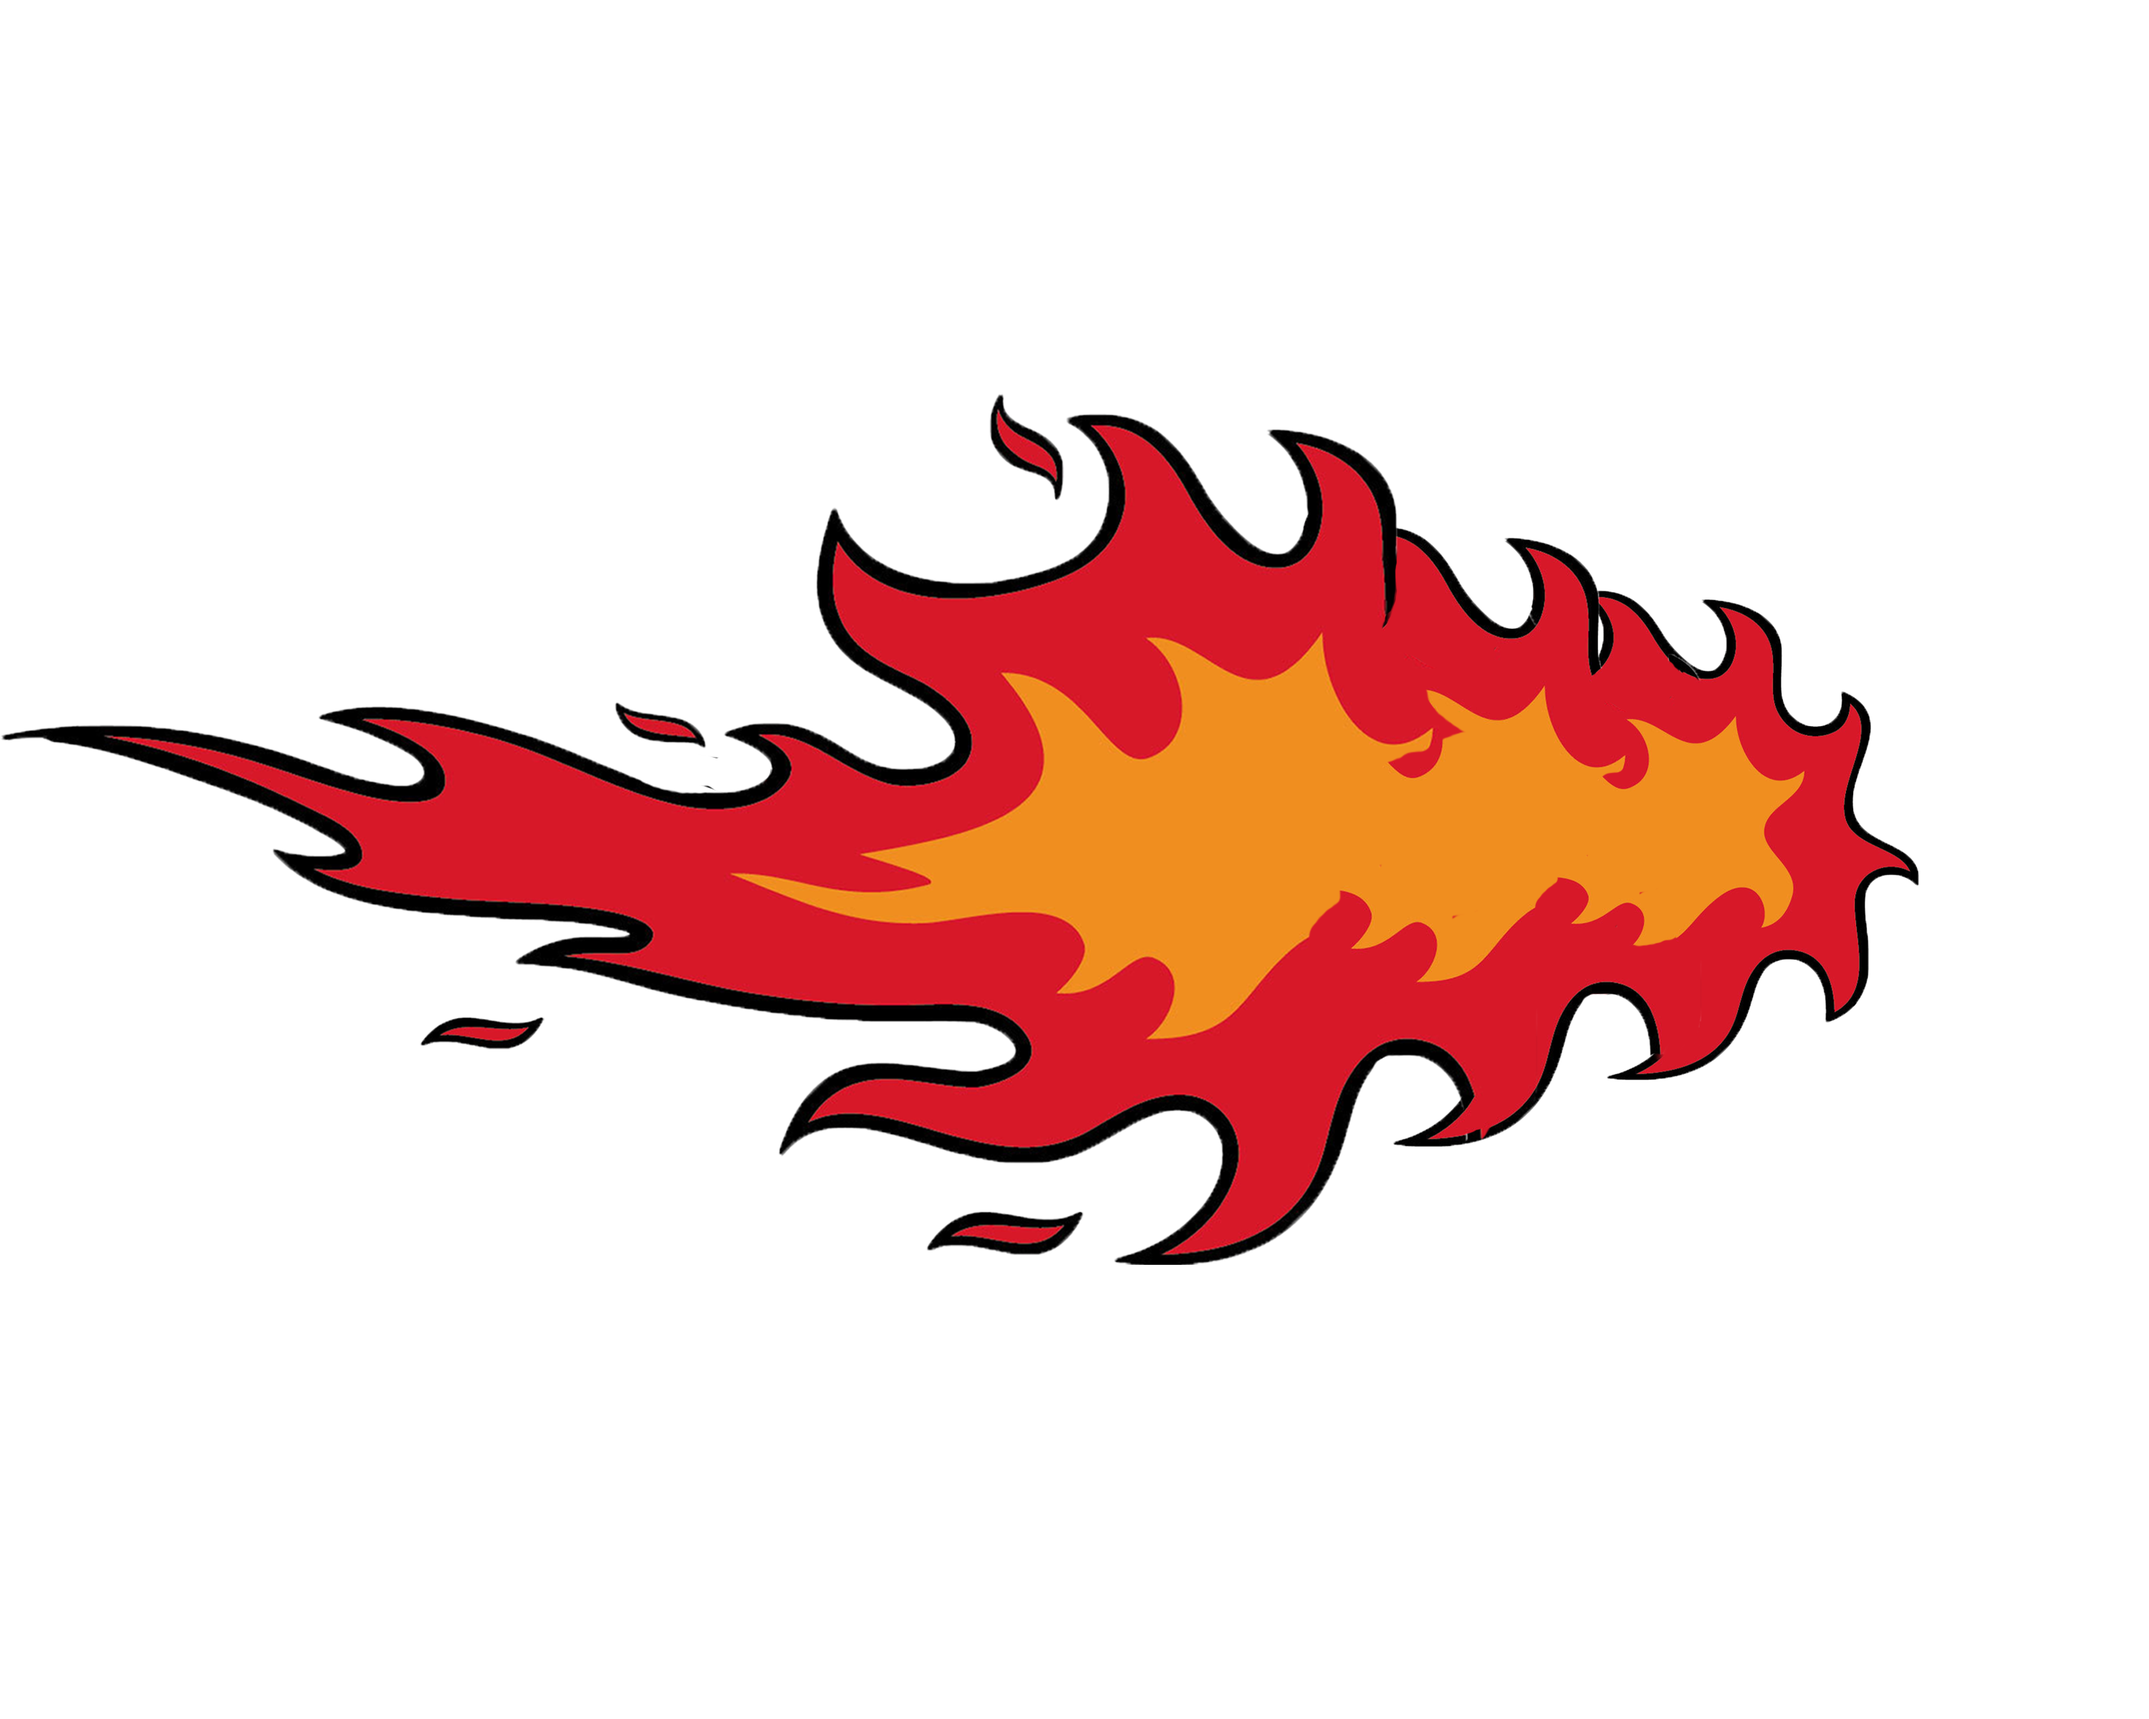
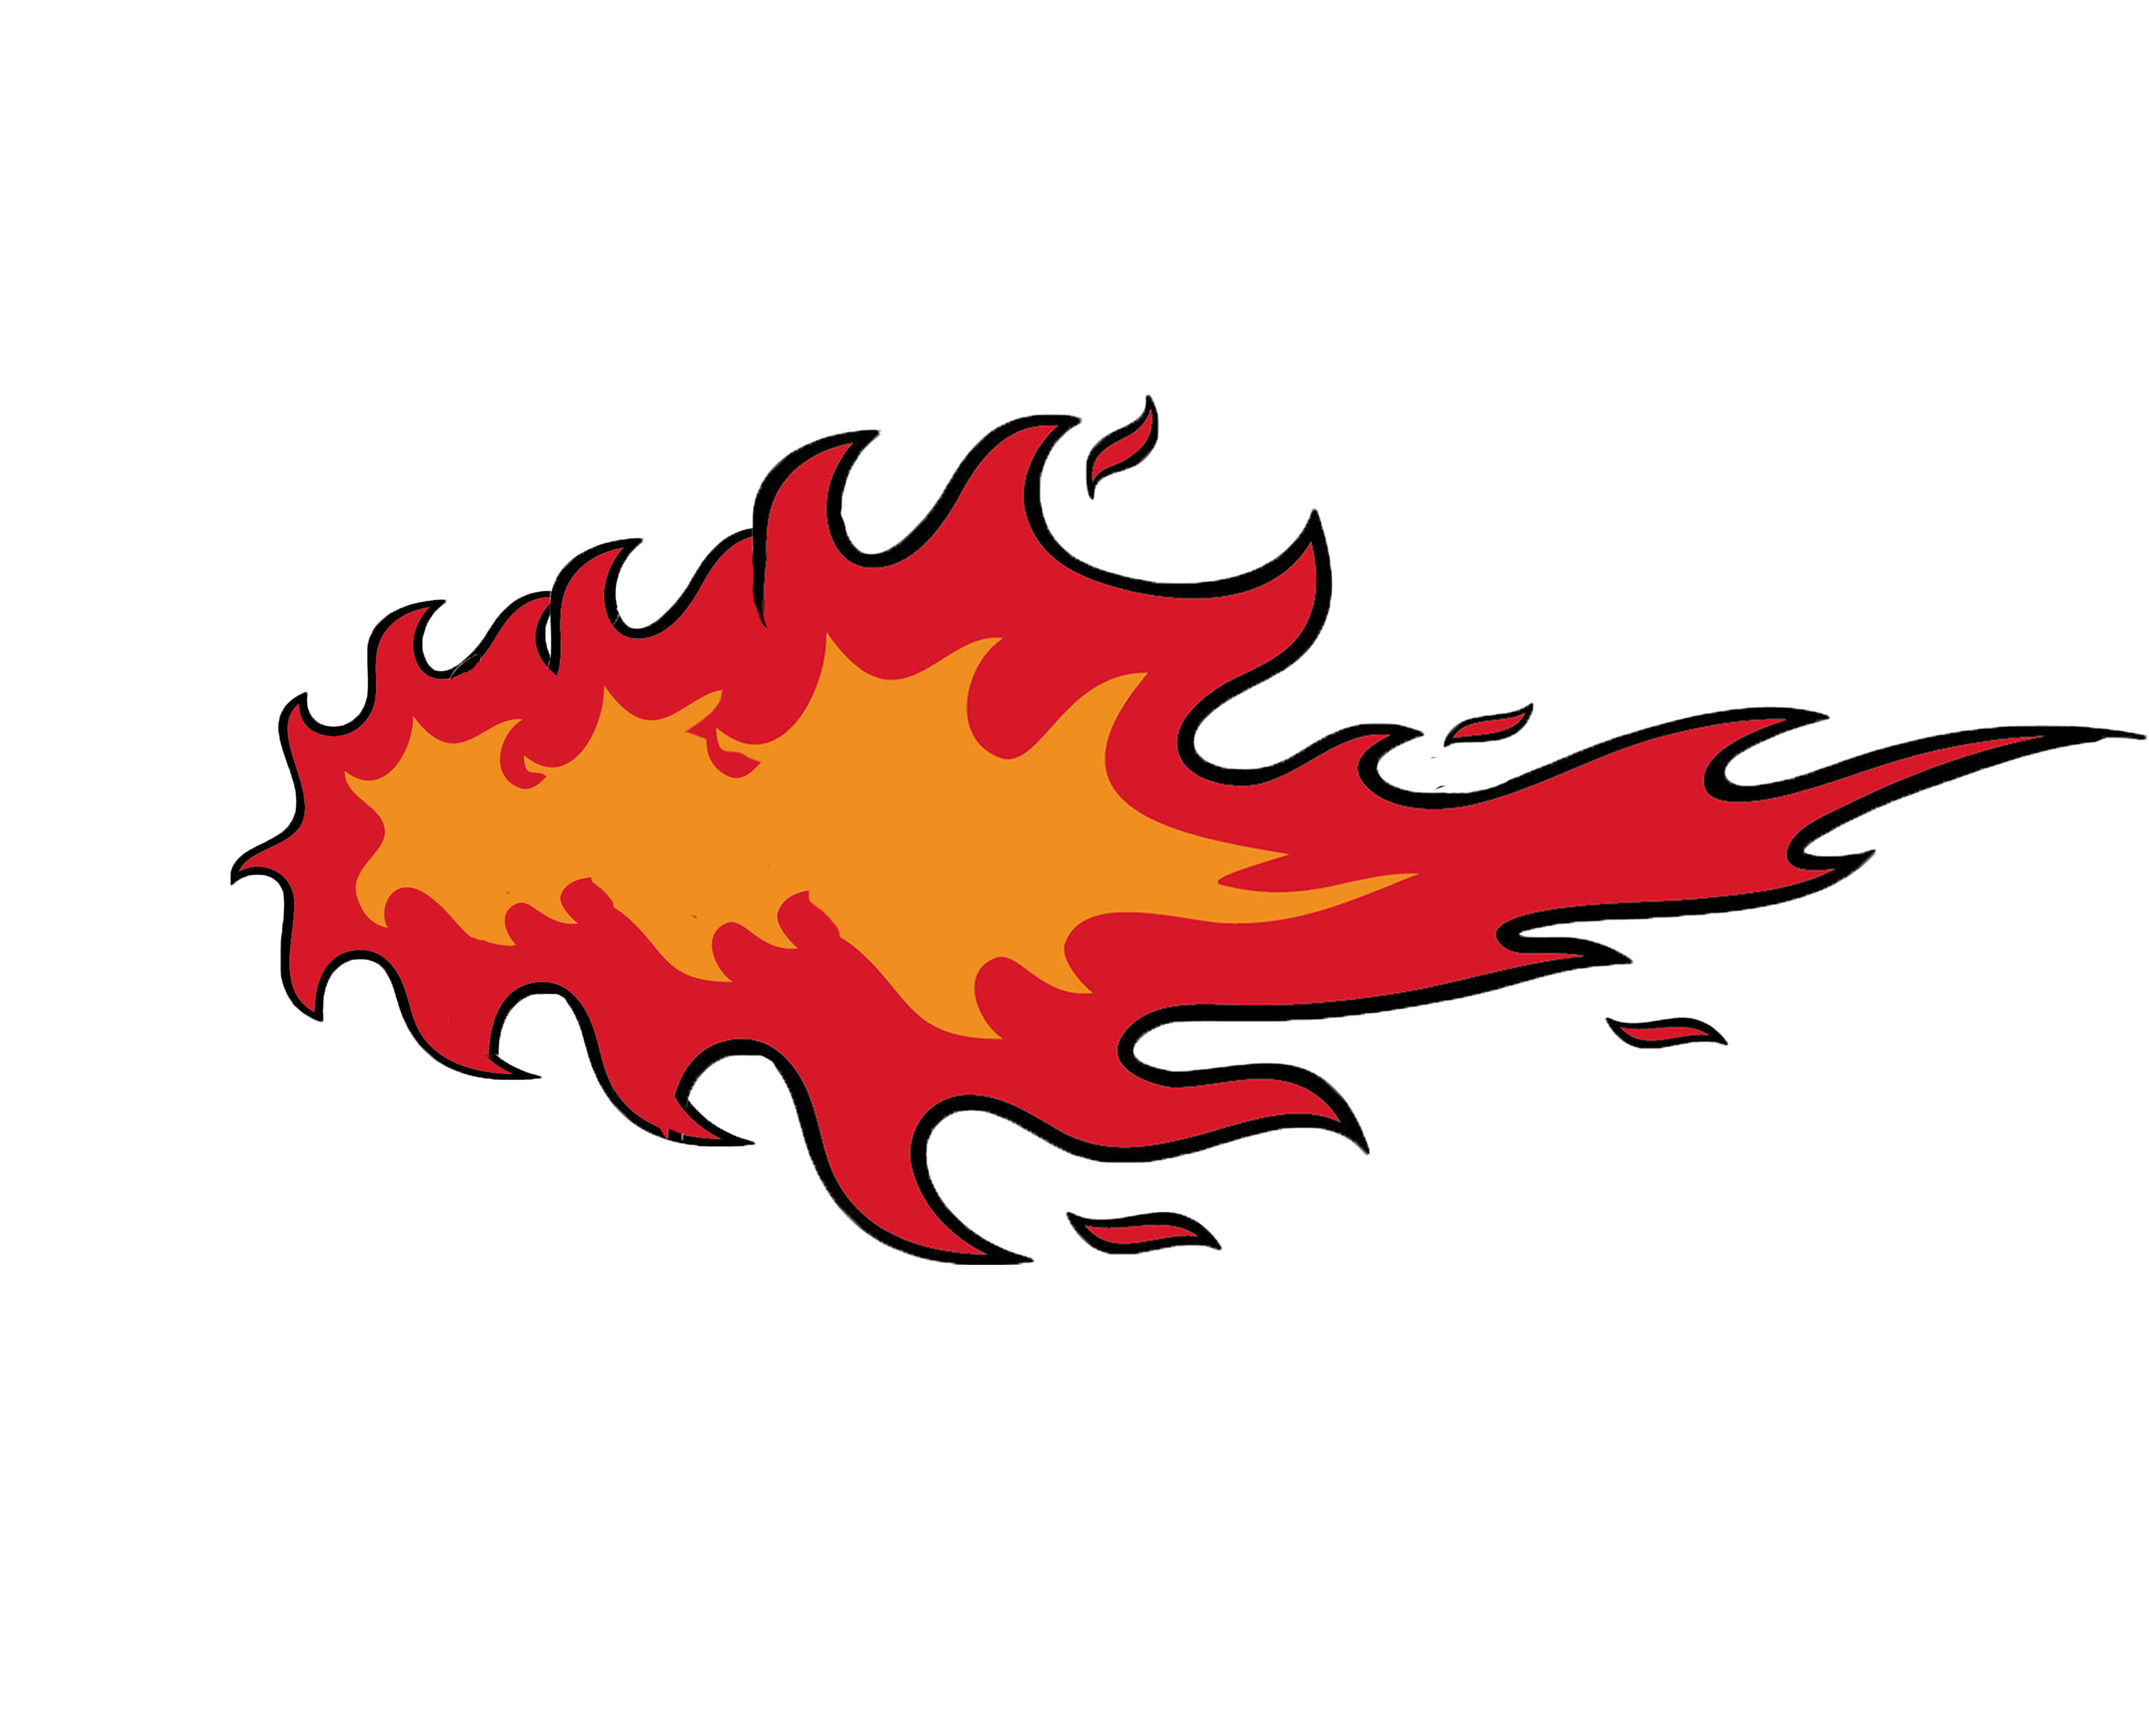
add firebreathing animation

Changed region(s): [[0.0, 0.2188, 1.0, 0.75]]

diff --git a/css/styles.css b/css/styles.css
@@ -225,7 +225,38 @@ flapping wings images (.wings-down and wings-up) need to disappear when the surp
     opacity: 1;
   }
 }
-/* ---fighting obstacle--- */
+/* ---firebreathing and fighting obstacle--- */
+.little-fire {
+  animation: breathe-fire 0.4s infinite linear alternate;
+}
+@keyframes breathe-fire {
+  0% {
+    opacity: 0;
+    transform: translate(150px,-20px);
+  }
+  50% {
+    opacity:1;
+  }
+  100% {
+    opacity: 1;
+    transform: translate(150px,-20px);
+  }
+}
+.bigger-fire {
+  animation: more-fire 0.4s infinite linear alternate;
+}
+@keyframes more-fire {
+  0% {
+    opacity: 1;
+    transform: translate(150px,-20px);
+  }
+  50% {
+    opacity:1;
+  }
+  100% {
+    opacity: 0;
+    transform: translate(150px,-20px);
+  }
 
 /* ---obstacles--- */
 .falling-rock {

diff --git a/index.html b/index.html
@@ -101,9 +101,12 @@
       <img class = "wings-up" src="img/dragon-wings-up.png" alt="dragon-wings-up">
     </div>
     <div class="dragon" id="surprised">
-      <img class = "dragon-surprised" src="img/dragon-standing.png" alt="dragon-wings-up">
+      <img src="img/dragon-standing.png" alt="dragon-standing">
     </div>
     <div class="dragon" id="firebreathing">
+        <img src="img/dragon-standing.png" alt="dragon-standing">
+        <img class= "little-fire" src="img/dragon-fire.png" alt="dragon-breathing-fire">
+        <img class="bigger-fire" src="img/dragon-fire-lg.png" alt="dragon-breathing-bigger-fire">
     </div>
     
     <div class="background-forest">

diff --git a/js/scripts.js b/js/scripts.js
@@ -130,7 +130,8 @@ $(document).ready(function(){
   $("form#formOne").submit(function(event){
     event.preventDefault();
     $("#dragon-sleep").hide();
-    $(".dragon#flying").show();
+    $(".dragon#firebreathing").show();
+    // $(".dragon#flying").show();
     // $(".dragon#surprised").show();
 
   })
